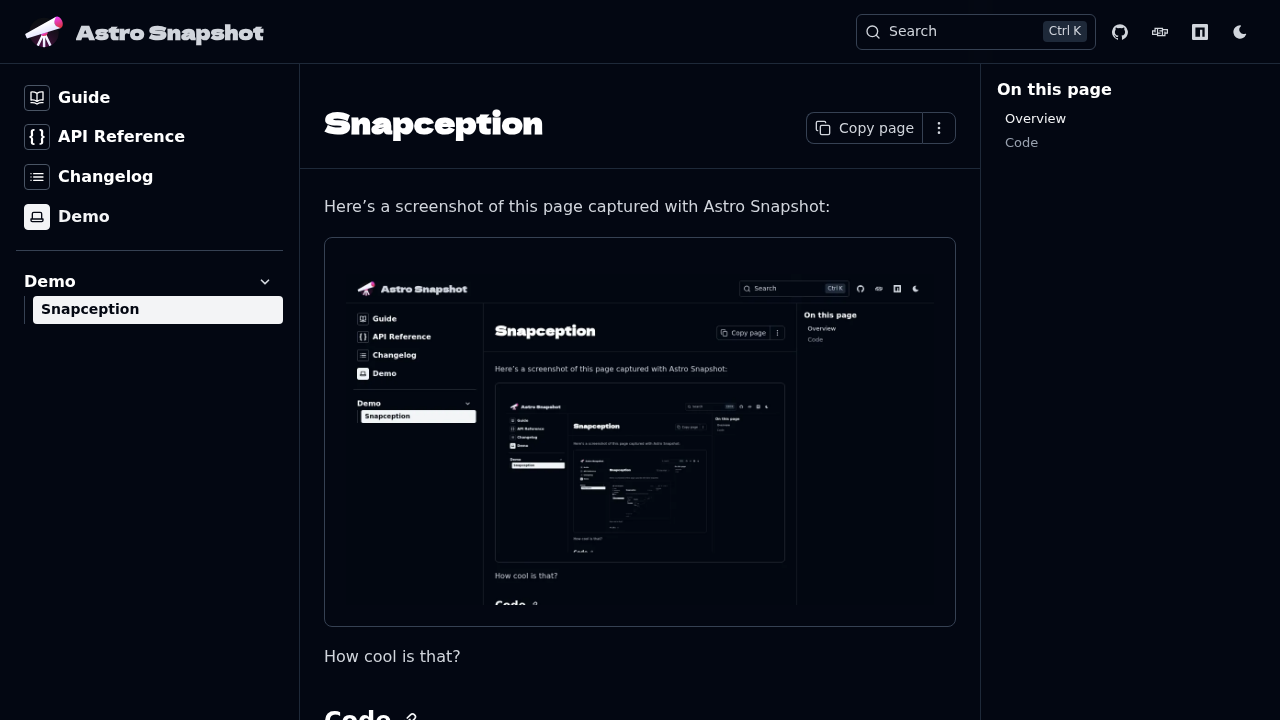
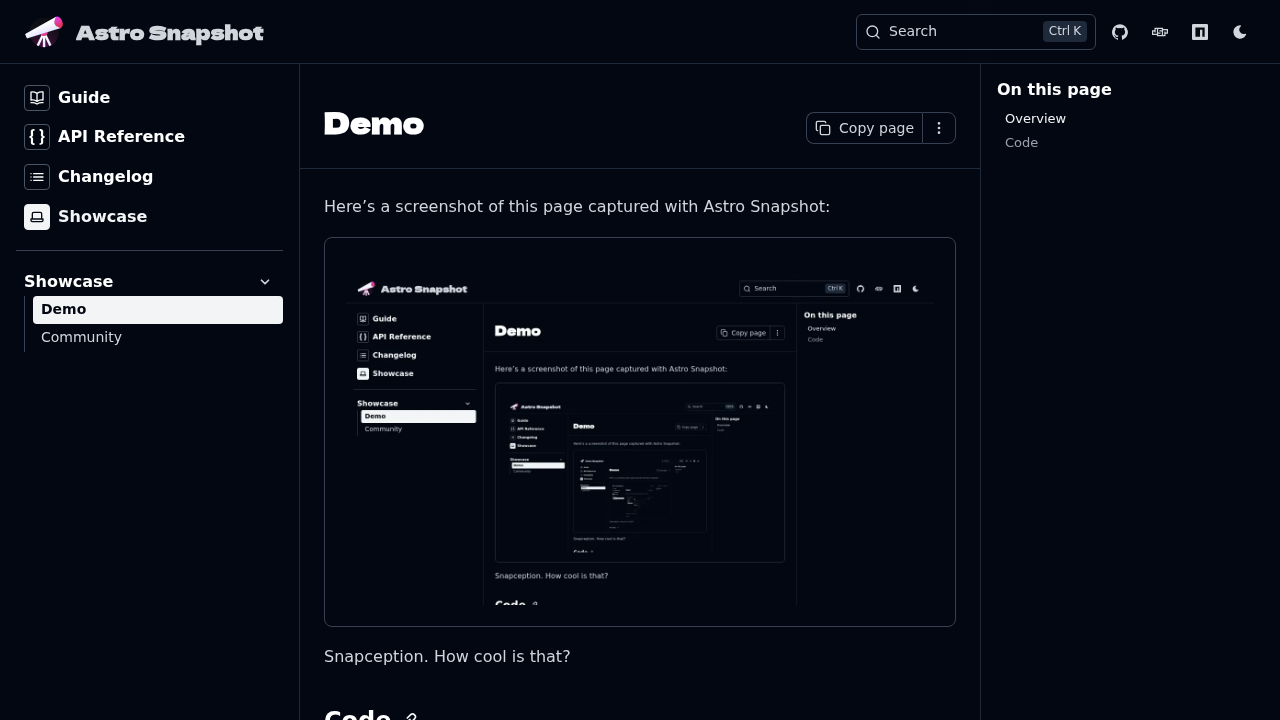
docs(site): move demo page to showcase section

diff --git a/docs/site/astro.config.ts b/docs/site/astro.config.ts
@@ -16,7 +16,7 @@ export default defineConfig({
 	integrations: [
 		snapshot({
 			pages: {
-				'/demo': [
+				'/showcase/demo': [
 					{
 						outputPath: `src/assets/demo.png`,
 						width: 1280,
@@ -94,9 +94,11 @@ export default defineConfig({
 									},
 									{
 										label: 'Troubleshooting',
-										autogenerate: {
-											directory: 'guide/troubleshooting',
-										},
+										slug: 'guide/troubleshooting',
+									},
+									{
+										label: 'How it Works',
+										slug: 'guide/how-it-works',
 									},
 								],
 							},
@@ -150,14 +152,14 @@ export default defineConfig({
 						],
 					},
 					{
-						label: 'Demo',
-						link: '/demo',
+						label: 'Showcase',
+						link: '/showcase/demo',
 						icon: 'laptop',
 						items: [
 							{
-								label: 'Demo',
+								label: 'Showcase',
 								autogenerate: {
-									directory: 'demo',
+									directory: 'showcase',
 								},
 							},
 						],
